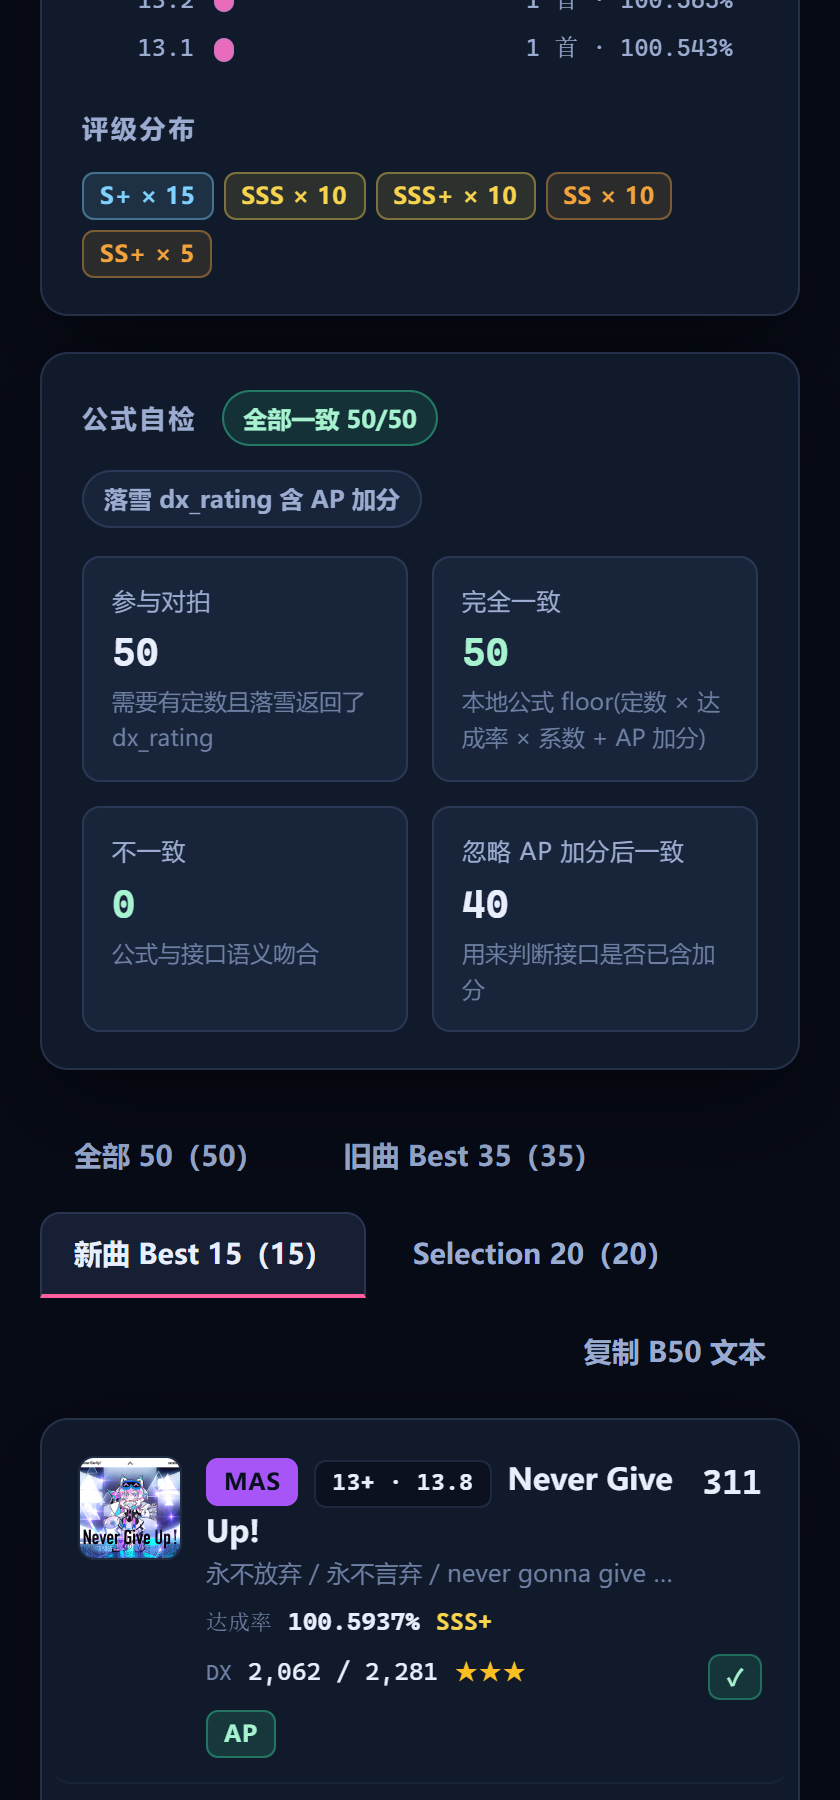
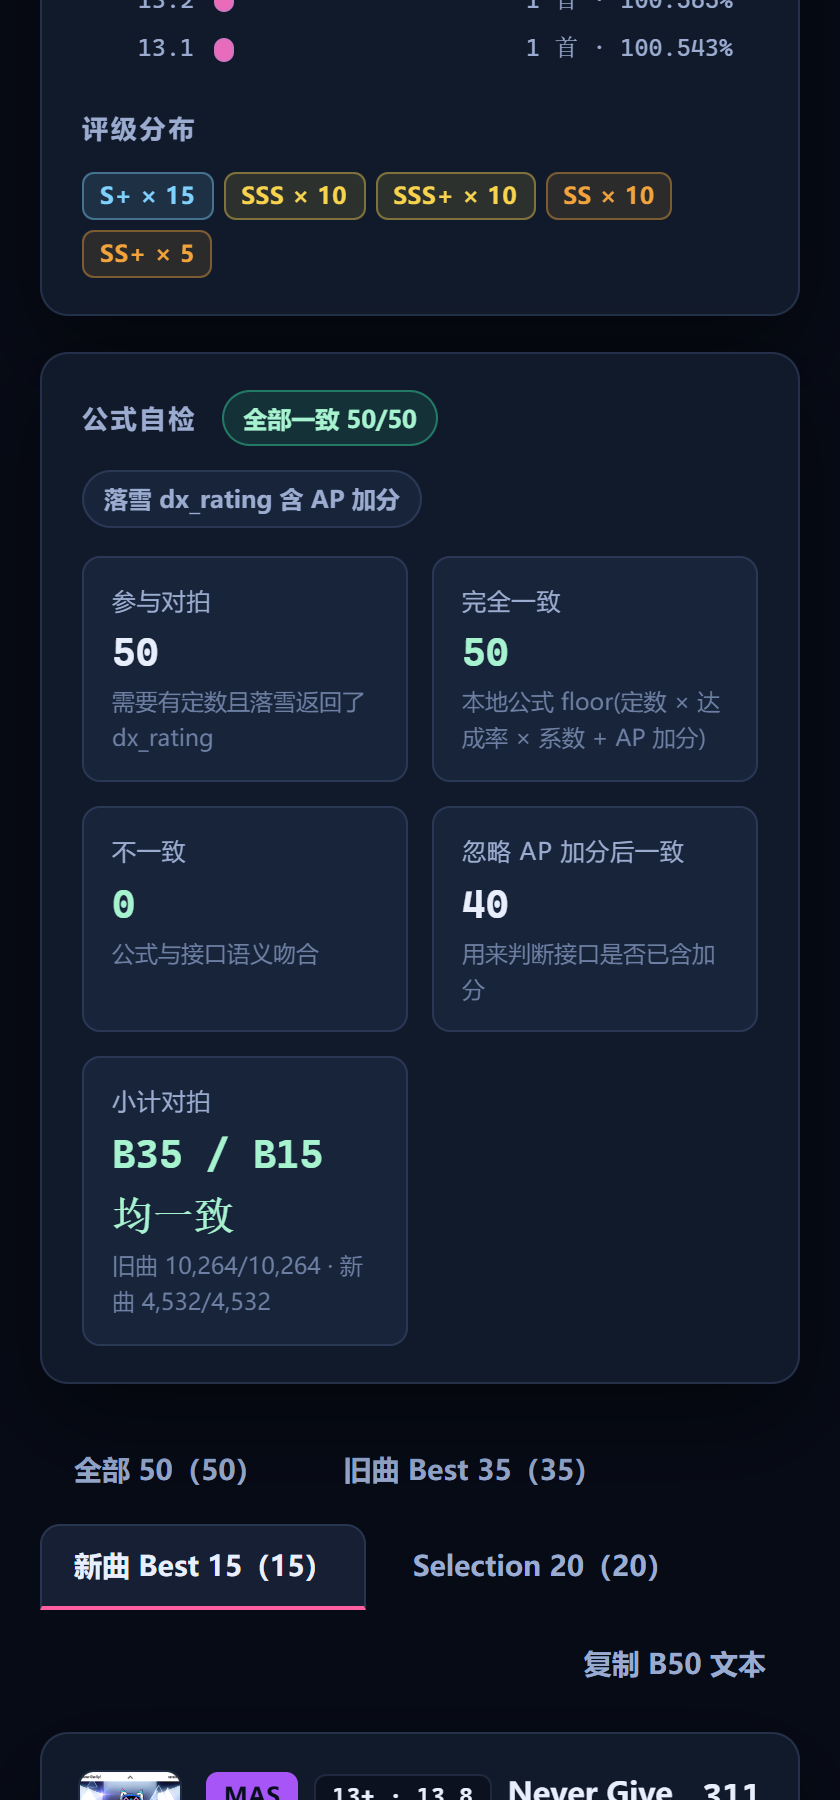
fix(core): B35/B15 小计按列表划分而非谱面类型
真实数据暴露的问题：落雪 /bests 的 standard(35) 与 dx(15) 是按曲子版本
划分的，列表内部同时含标准谱面与 DX 谱面（实测 B35 中有 26 条 type=dx）。
原先按 score.type 过滤算小计，导致 B35/B15 小计与官方 standard_total /
dx_total 对不上，条数也显示成 9/41。

- computeStats 改为接收两个列表，小计与条数均按列表来源统计
- B50Stats 增加 computedStandardDelta / computedDxDelta
- 自检面板增加「小计对拍」卡片
- 冒烟测试增加小计一致与 35/15 条数断言
- README 记录该口径坑与真实数据验证结果

diff --git a/packages/core/src/maimai/b50.ts b/packages/core/src/maimai/b50.ts
@@ -188,6 +188,10 @@ export interface B50Stats {
 
   /** 本地公式与官方合计的差值。 */
   computedDelta: number;
+  /** 旧曲小计的差值（本地 - 官方）。 */
+  computedStandardDelta: number;
+  /** 新曲小计的差值（本地 - 官方）。 */
+  computedDxDelta: number;
 
   chartCount: number;
   /** 旧曲（standard）条目数。 */
@@ -282,7 +286,7 @@ export function buildB50View(input: BuildB50Input): B50View {
   const dxSelections = buildEntries(bests.dx_selections ?? [], index, warnings);
 
   const main = [...standard, ...dx];
-  const stats = computeStats(main, bests);
+  const stats = computeStats(standard, dx, bests);
   const selfCheck = computeSelfCheck(main);
 
   const playerView: PlayerView = {
@@ -415,18 +419,25 @@ function sumNotes(list: (MaimaiNotes | undefined)[]): MaimaiNotes | null {
   );
 }
 
-function computeStats(entries: B50Entry[], bests: MaimaiBests): B50Stats {
+/**
+ * 汇总统计。
+ *
+ * ⚠ 关键口径：落雪的 `standard` / `dx` 两个列表是按**曲子版本**划分的
+ * （旧曲 Best 35 / 新曲 Best 15），列表内部同时包含标准谱面与 DX 谱面。
+ * 因此小计必须按「来自哪个列表」拆，而不能按 `score.type` 拆——
+ * 实测一份真实 B50 的 B35 里有 26 条是 DX 谱面。
+ */
+function computeStats(standard: B50Entry[], dx: B50Entry[], bests: MaimaiBests): B50Stats {
+  const entries = [...standard, ...dx];
   const withLevel = entries.filter((e) => e.levelValue !== null);
 
   const sum = (list: number[]) => list.reduce((a, b) => a + b, 0);
   const avg = (list: number[]) => (list.length === 0 ? 0 : sum(list) / list.length);
+  const ratingsOf = (list: B50Entry[]) =>
+    list.filter((e) => e.computedRating !== null).map((e) => e.computedRating as number);
 
-  const computedStandardTotal = sum(
-    entries.filter((e) => e.type !== 'dx' && e.computedRating !== null).map((e) => e.computedRating as number),
-  );
-  const computedDxTotal = sum(
-    entries.filter((e) => e.type === 'dx' && e.computedRating !== null).map((e) => e.computedRating as number),
-  );
+  const computedStandardTotal = sum(ratingsOf(standard));
+  const computedDxTotal = sum(ratingsOf(dx));
 
   const standardTotal = bests.standard_total ?? 0;
   const dxTotal = bests.dx_total ?? 0;
@@ -465,9 +476,11 @@ function computeStats(entries: B50Entry[], bests: MaimaiBests): B50Stats {
     computedStandardTotal,
     computedDxTotal,
     computedDelta: computedTotal - total,
+    computedStandardDelta: computedStandardTotal - standardTotal,
+    computedDxDelta: computedDxTotal - dxTotal,
     chartCount: entries.length,
-    standardCount: entries.filter((e) => e.type !== 'dx').length,
-    dxCount: entries.filter((e) => e.type === 'dx').length,
+    standardCount: standard.length,
+    dxCount: dx.length,
     averageLevelValue: avg(levelValues),
     maxLevelValue: levelValues.length ? Math.max(...levelValues) : 0,
     averageAchievement: avg(achievements),

diff --git a/apps/web/src/components/SelfCheckPanel.tsx b/apps/web/src/components/SelfCheckPanel.tsx
@@ -1,8 +1,9 @@
-import type { RatingSelfCheck } from '@astramai/core';
-import { formatAchievement, formatFixed } from '@astramai/core';
+import type { B50Stats, RatingSelfCheck } from '@astramai/core';
+import { formatAchievement, formatFixed, formatInt } from '@astramai/core';
 
 interface SelfCheckPanelProps {
   selfCheck: RatingSelfCheck;
+  stats: B50Stats;
 }
 
 /**
@@ -12,8 +13,10 @@ interface SelfCheckPanelProps {
  * 与其相信注释，不如每次查询都用落雪返回的 dx_rating 逐条对拍。
  * 真实密钥下跑一次就能拿到数百条的统计结论。
  */
-export function SelfCheckPanel({ selfCheck }: SelfCheckPanelProps) {
+export function SelfCheckPanel({ selfCheck, stats }: SelfCheckPanelProps) {
   const { checked, matched, mismatched, missingApiRating, matchedWithoutApBonus, includesApBonus } = selfCheck;
+
+  const subtotalOk = stats.computedStandardDelta === 0 && stats.computedDxDelta === 0;
 
   if (checked === 0) {
     return (
@@ -73,6 +76,17 @@ export function SelfCheckPanel({ selfCheck }: SelfCheckPanelProps) {
           <div className="stat__label">忽略 AP 加分后一致</div>
           <div className="stat__value">{matchedWithoutApBonus}</div>
           <div className="stat__sub">用来判断接口是否已含加分</div>
+        </div>
+        <div className="stat">
+          <div className="stat__label">小计对拍</div>
+          <div className="stat__value" style={{ color: subtotalOk ? '#a7f3d0' : '#fecaca' }}>
+            {subtotalOk ? 'B35 / B15 均一致' : '有偏差'}
+          </div>
+          <div className="stat__sub">
+            旧曲 {formatInt(stats.computedStandardTotal)}/{formatInt(stats.standardTotal)}
+            {' · '}
+            新曲 {formatInt(stats.computedDxTotal)}/{formatInt(stats.dxTotal)}
+          </div>
         </div>
       </div>
 

diff --git a/packages/core/src/lxns/errors.ts b/packages/core/src/lxns/errors.ts
@@ -48,7 +48,7 @@ const FRIENDLY_MESSAGES: Record<LxnsErrorKind, string> = {
   forbidden: '密钥权限不足：该密钥未被授予「读取玩家成绩」等所需权限。',
   'not-found': '查不到这个好友码对应的玩家，可能尚未在落雪同步过数据。',
   'rate-limited': '请求太频繁，被落雪限流了，请稍等几秒再试。',
-  'bad-request': '请求参数不对，请检查好友码是否填写正确。',
+  'bad-request': '请求参数不对。好友码应为 15 位数字（游戏内「好友」界面可见），QQ 号请填纯数字。',
   server: '落雪服务端出错了，请稍后再试。',
   network: '连不上落雪服务器，请检查本机网络或代理设置。',
   timeout: '请求落雪超时，请稍后重试。',

diff --git a/apps/web/src/App.tsx b/apps/web/src/App.tsx
@@ -281,7 +281,7 @@ export function App() {
 
           <PlayerCard view={view} />
           <StatsPanel stats={view.stats} />
-          <SelfCheckPanel selfCheck={view.selfCheck} />
+          <SelfCheckPanel selfCheck={view.selfCheck} stats={view.stats} />
 
           {view.warnings.length > 0 ? (
             <section className="card warnings">

diff --git a/README.md b/README.md
@@ -121,6 +121,19 @@ npm start         # http://127.0.0.1:8787
 Mock 模式的数据也是按同一套公式生成的，所以自检在离线状态下同样会全部通过——
 自检一旦变红，就说明公式实现被改坏了。
 
+### 真实数据下的验证结果
+
+用真实开发者密钥拉取真实账号后：50 条成绩逐条一致，`standard_total` / `dx_total`
+与本地算出的 B35 / B15 小计**完全相等**，差值为 0。
+
+### 一个容易踩的坑：B35 / B15 不是按谱面类型分的
+
+落雪 `/bests` 的 `standard`（35 条）与 `dx`（15 条）两个列表是按**曲子版本**划分的，
+列表内部同时包含标准谱面与 DX 谱面。实测一份真实 B50 的 B35 里有 26 条是 `type: "dx"` 的成绩。
+
+因此算 B35 / B15 小计必须按「来自哪个列表」拆，**不能**按 `score.type` 过滤——
+按类型过滤会得到一份看起来很合理、但和官方总分对不上的小计。
+
 ---
 
 ## 界面
@@ -171,5 +184,7 @@ AstraMai/
 
 - B50 依赖落雪**已缓存**的数据；玩家若从未在落雪同步过，接口会返回 404。
 - 落雪的 Selection 列表在部分账号上可能为空，界面会照常显示空分组。
+- 「落雪的 `dx_rating` 是否含 AP 加分」这一结论需要 B50 里至少有一条 AP 成绩才能判定；
+  账号没有 AP 时界面会显示「无法判定」，这属于正常情况（含与不含两种算法结果此时本就相同）。
 - 宴会场（utage）曲目的 `level_index` 恒为 0，谱面定位靠难度标级二次匹配；匹配不到时会在「数据提示」里说明。
 - 游戏资源（曲绘 / 音频）来自 `assets2.lxns.net`，官方文档提示有访问频率限制，请勿高频拉取。
